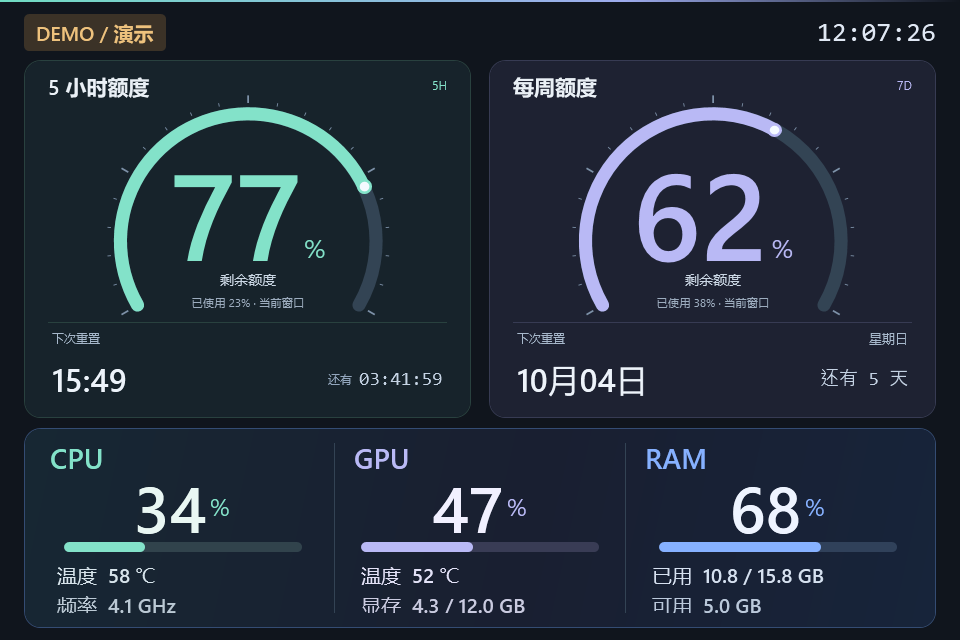
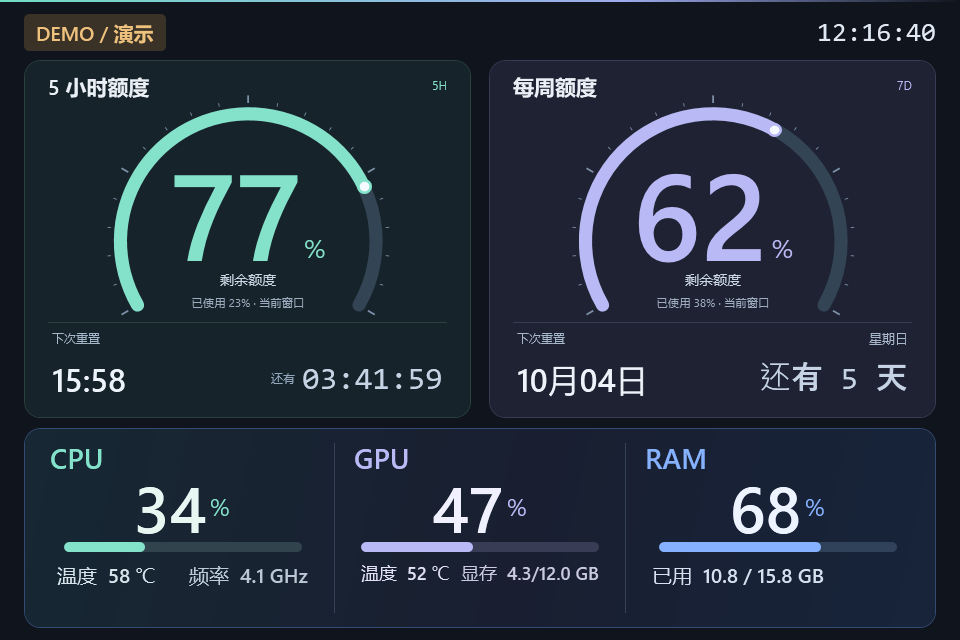
Refine compact hardware metric layout

diff --git a/Dashboard.xaml b/Dashboard.xaml
@@ -71,7 +71,7 @@
                   <TextBlock x:Name="ShortReset" Grid.Row="1" Text="--" FontSize="32" FontWeight="Medium" Foreground="#EDF3FA" VerticalAlignment="Center"/>
                   <StackPanel Grid.Row="1" Orientation="Horizontal" HorizontalAlignment="Right" VerticalAlignment="Center">
                     <TextBlock x:Name="ShortCountdownLead" Text="还有" FontSize="12" Foreground="#93A6BD" VerticalAlignment="Center" Margin="0,0,7,0"/>
-                    <TextBlock x:Name="ShortCountdown" Text="--" FontSize="19" FontFamily="Consolas" Foreground="#C5D3E4" VerticalAlignment="Center"/>
+                    <TextBlock x:Name="ShortCountdown" Text="--" FontSize="32" FontWeight="Medium" FontFamily="Consolas" Foreground="#C5D3E4" VerticalAlignment="Center"/>
                   </StackPanel>
                 </Grid>
               </Border>
@@ -97,7 +97,7 @@
                   <TextBlock x:Name="WeekReset" Grid.Row="1" Text="--" FontSize="32" FontWeight="Medium" Foreground="#EDF3FA" VerticalAlignment="Center"/>
                   <StackPanel Grid.Row="1" Orientation="Horizontal" HorizontalAlignment="Right" VerticalAlignment="Center">
                     <TextBlock x:Name="WeekCountdownLead" Text="还有" FontSize="12" Foreground="#93A6BD" VerticalAlignment="Center" Margin="0,0,7,0"/>
-                    <TextBlock x:Name="WeekCountdown" Text="--" FontSize="19" FontFamily="Consolas" Foreground="#C5D3E4" VerticalAlignment="Center"/>
+                    <TextBlock x:Name="WeekCountdown" Text="--" FontSize="32" FontWeight="Medium" FontFamily="Consolas" Foreground="#C5D3E4" VerticalAlignment="Center"/>
                   </StackPanel>
                 </Grid>
               </Border>
@@ -120,10 +120,10 @@
               <Border Grid.Row="2" Width="238" Height="10" CornerRadius="5" Background="#31434C" HorizontalAlignment="Center">
                 <Border x:Name="CpuFill" Width="0" CornerRadius="5" Background="#83E2C9" HorizontalAlignment="Left"/>
               </Border>
-              <StackPanel Grid.Row="3" Margin="7,8,7,0">
-                <TextBlock x:Name="CpuTemp" Text="温度  -- ℃" FontSize="20" FontWeight="Medium" Foreground="#D7E4EB"/>
-                <TextBlock x:Name="CpuClock" Text="频率  -- GHz" FontSize="20" FontWeight="Medium" Foreground="#BBC9D4" Margin="0,3,0,0"/>
-              </StackPanel>
+              <Grid Grid.Row="3" Margin="7,8,7,0">
+                <TextBlock x:Name="CpuTemp" Text="温度  -- ℃" FontSize="20" FontWeight="Medium" Foreground="#D7E4EB" HorizontalAlignment="Left"/>
+                <TextBlock x:Name="CpuClock" Text="频率  -- GHz" FontSize="20" FontWeight="Medium" Foreground="#BBC9D4" HorizontalAlignment="Right"/>
+              </Grid>
             </Grid>
 
             <Border Grid.Column="1" Background="#334354"/>
@@ -140,10 +140,10 @@
               <Border Grid.Row="2" Width="238" Height="10" CornerRadius="5" Background="#393C55" HorizontalAlignment="Center">
                 <Border x:Name="GpuFill" Width="0" CornerRadius="5" Background="#B9B9F5" HorizontalAlignment="Left"/>
               </Border>
-              <StackPanel Grid.Row="3" Margin="7,8,7,0">
-                <TextBlock x:Name="GpuTemp" Text="温度  -- ℃" FontSize="20" FontWeight="Medium" Foreground="#E3E2F7"/>
-                <TextBlock x:Name="GpuMemory" Text="显存  --" FontSize="20" FontWeight="Medium" Foreground="#CACBE0" Margin="0,3,0,0"/>
-              </StackPanel>
+              <Grid Grid.Row="3" Margin="7,8,7,0">
+                <TextBlock x:Name="GpuTemp" Text="温度  -- ℃" FontSize="18" FontWeight="Medium" Foreground="#E3E2F7" HorizontalAlignment="Left"/>
+                <TextBlock x:Name="GpuMemory" Text="显存  --" FontSize="18" FontWeight="Medium" Foreground="#CACBE0" HorizontalAlignment="Right"/>
+              </Grid>
             </Grid>
 
             <Border Grid.Column="3" Background="#334354"/>
@@ -160,10 +160,9 @@
               <Border Grid.Row="2" Width="238" Height="10" CornerRadius="5" Background="#30415A" HorizontalAlignment="Center">
                 <Border x:Name="RamFill" Width="0" CornerRadius="5" Background="#86B1FF" HorizontalAlignment="Left"/>
               </Border>
-              <StackPanel Grid.Row="3" Margin="7,8,7,0">
+              <Grid Grid.Row="3" Margin="7,8,7,0">
                 <TextBlock x:Name="RamUsed" Text="已用  --" FontSize="20" FontWeight="Medium" Foreground="#D6E1F0"/>
-                <TextBlock x:Name="RamAvailable" Text="可用  --" FontSize="20" FontWeight="Medium" Foreground="#BBC9DB" Margin="0,3,0,0"/>
-              </StackPanel>
+              </Grid>
             </Grid>
           </Grid>
         </Border>

diff --git a/VERIFICATION.md b/VERIFICATION.md
@@ -71,3 +71,10 @@ powershell.exe -NoProfile -STA -ExecutionPolicy Bypass -File .\Monitor.ps1 -Demo
 - 修正内存使用率读取为物理内存，与已用容量保持一致；新增一致性断言。
 - 50 项后端、9 项暂停恢复、13 项硬件断言通过；最终 EXE 自检与真实数据副屏运行检查通过。
 - 本次仍仅保存在本机，未推送 GitHub。
+
+## 2026-09-29 单行硬件信息更新
+
+- 删除 RAM 可用容量；CPU 温度/频率和 GPU 温度/显存分别合并为单行两端对齐，底部文字不再被裁切。
+- 5 小时与每周额度右侧倒计时统一为 32px，与左侧重置时间保持一致。
+- 960×640 演示和管理员权限真实数据画面均已检查；50 项后端、9 项暂停恢复、13 项硬件断言通过。
+- 本次仍仅保存在本机，未推送 GitHub。
